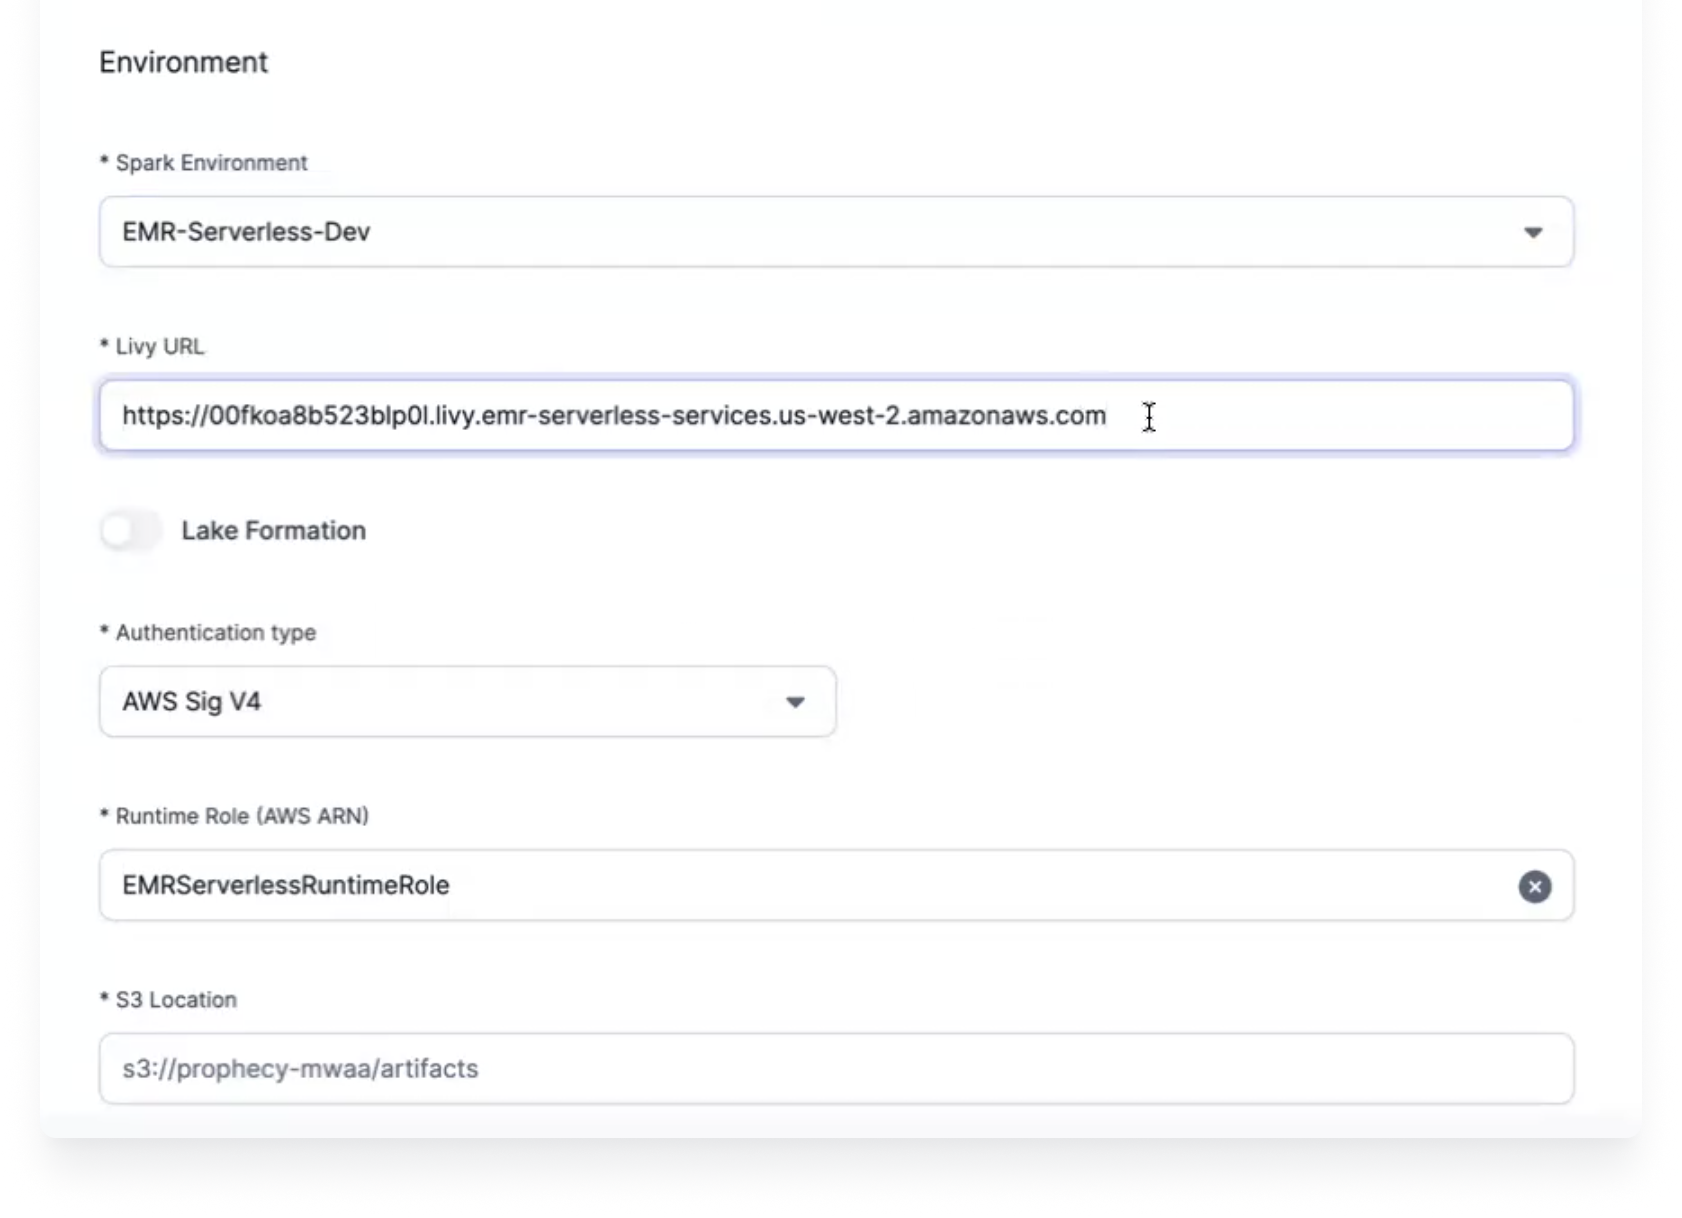
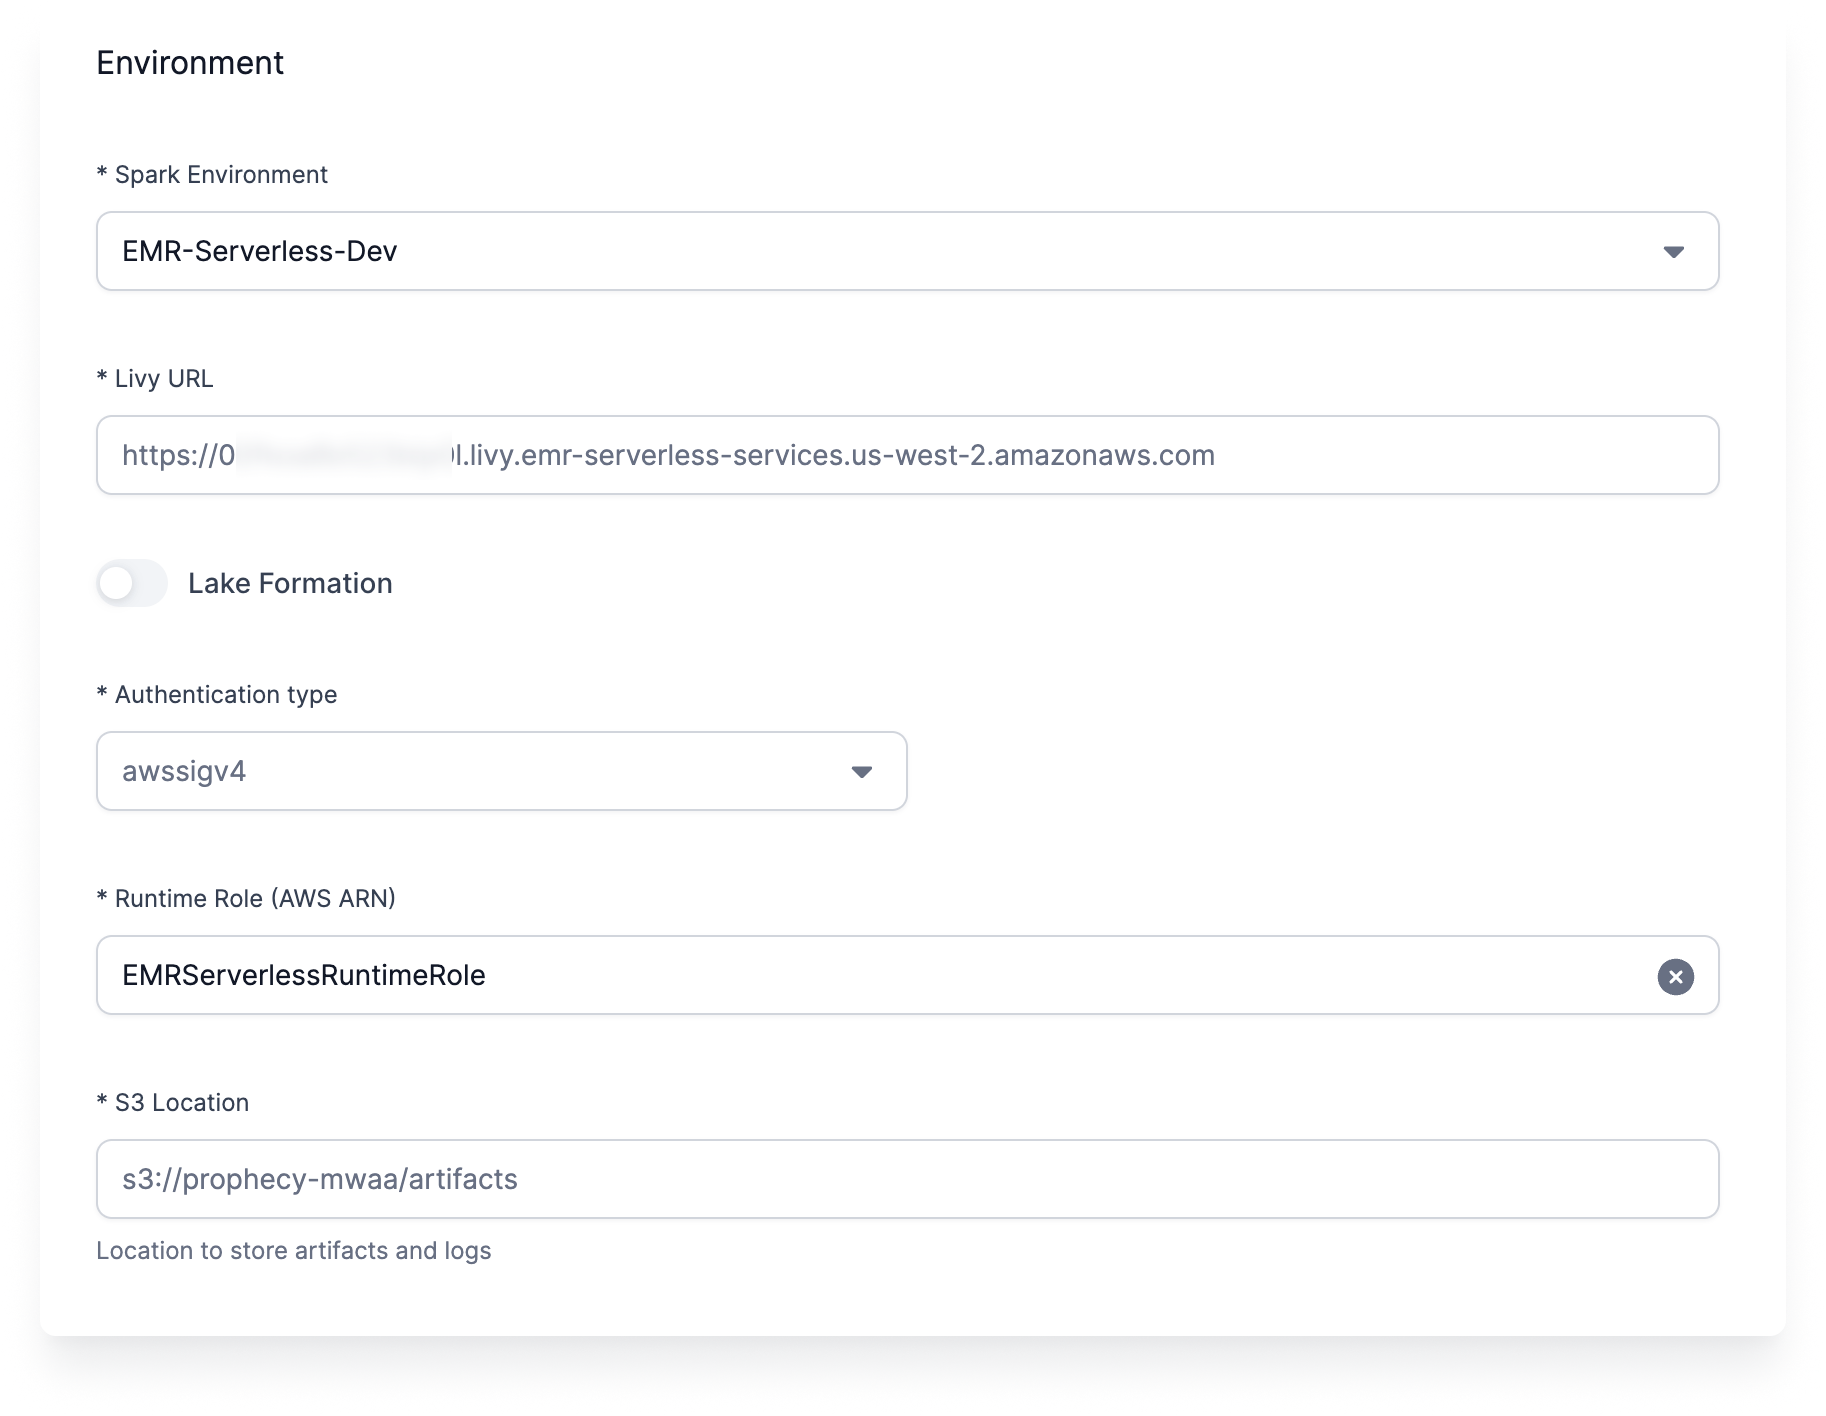
Updated screenshots and text
Also minor updates to other Fabrics pages

diff --git a/docs/Spark/fabrics/emr-fabric-serverless.md b/docs/Spark/fabrics/emr-fabric-serverless.md
@@ -10,7 +10,7 @@ tags:
   - serverless
 ---
 
-In the context of Spark execution engines, users have the flexibility to opt for Amazon EMR Serverless. This guide offers step-by-step instructions on creating a Fabric that enables seamless connectivity to the EMR Serverless environment.
+In the context of Spark execution engines, you have the flexibility to opt for Amazon EMR Serverless. This guide offers step-by-step instructions on creating a Fabric that enables seamless connectivity to the EMR Serverless environment.
 
 ## Create Amazon EMR Serverless cluster with Apache Livy
 
@@ -18,7 +18,7 @@ Navigate to Amazon EMR Serverless service and create a cluster. Under **Applicat
 
 Choose appropriate applications to include in your installation. At a minimum, make sure sure **Livy** and **Spark** are included in the install.
 
-<img src={require('./img/livy.png').default} alt="EMR create cluster" width="75%" />
+<img src={require('./img/livy.png').default} alt="EMR Serverless create cluster" width="75%" />
 
 ### Allow network connectivity between Amazon EMR Serverless and Prophecy
 
@@ -36,8 +36,8 @@ By implementing these adjustments to your EMR Serverless cluster's security grou
 
 ## Create a Fabric to connect Prophecy to EMR Serverless
 
-Navigate to Prophecy's UI and click on **Create Fabric**. The Fabric will establish a connection with your EMR Serverless cluster and utilizes it as the execution engine for your Pipelines.
-<img src={require('./img/create-entity-emr.png').default} alt="EMR create cluster" width="75%" />
+Navigate to Prophecy's UI and click on **Create Fabric**. The Fabric will establish a connection with your EMR Serverless cluster and use it as the execution engine for your Pipelines.
+<img src={require('./img/create-entity-emr.png').default} alt="EMR Serverless create Fabric" width="75%" />
 <br/>
 <br/>
 
@@ -46,37 +46,57 @@ Navigate to Prophecy's UI and click on **Create Fabric**. The Fabric will establ
 <br/>
 <br/>
 
-<img src={require('./img/name-emr.png').default} alt="EMR create Fabric" width="75%" />
+<img src={require('./img/name-emr-serverless.png').default} alt="EMR Serverless Fabric name" width="80%" />
 
-Choose **EMR** as your **Provider**.
+Choose **EMR** as your **Provider**. At this point, there is no distinction between creating an EMR and an EMR Serverless Fabric.
 
-<img src={require('./img/emr-f-abric.png').default} alt="EMR create Fabric" width="75%" />
+<img src={require('./img/emr-f-abric.png').default} alt="EMR Serverless Provider" width="75%" />
 
 Before proceeding, it is crucial to ensure that all the required settings are properly configured. If you are uncertain about the necessary configurations, we recommend reaching out to your cloud infrastructure team for additional guidance and assistance. They will be able to provide you with the specific information and support needed to ensure a successful setup.
 
 Enter your AWS credentials under **Access Key** and **Secret Key**. Choose the **Region** that your EMR Serverless cluster is running in.
 
-**Click** on **Fetch environments**.
-<img src={require('./img/emr-aws-cred.png').default} alt="EMR cred" width="75%" />
+Click on **Fetch environments**.
+<img src={require('./img/emr-aws-cred.png').default} alt="EMR Serverless cred" width="75%" />
 
-**Select** your EMR Serverless cluster that you would like to connect to under **Spark Environment**.
+Select your EMR Serverless cluster that you would like to connect to under **Spark Environment**. The EMR cluster listing also shows Serverless clusters. From the list of active clusters, you can identify your EMR Serverless cluster by finding `emr-serverless-services` within the Livy URL.
 
-<img src={require('./img/emr-serverless-dev.png').default} alt="EMR select" width="80%" />
+<img src={require('./img/emr-serverless-dev-select.png').default} alt="EMR Serverless select" width="80%" />
 
-Most of the fields should be automatically populated after selecting a EMR Serverless cluster. Enter the S3 path that points to the location where you would like your logs and Pipeline artifacts to persist.
+Most of the fields should be automatically populated after selecting a EMR Serverless cluster.
 
-<img src={require('./img/emr-serverless-environment.png').default} alt="EMR dependencies" width="80%" />
+Optional: You can enable Lake Formation by clicking the toggle.
+
+Select your Authentication type. We suggest choosing `AWS Sig V4`.
+<img src={require('./img/emr-serverless-auth-type.png').default} alt="EMR Serverless Authentication type" width="50%" />
+
+Select your Runtime Role. You will only see roles that you have access to.
+<img src={require('./img/emr-serverless-runtime-role.png').default} alt="EMR Serverless Runtime Role" width="75%" />
+
+Enter the S3 path that points to the location where you would like your logs and Pipeline artifacts to persist.
+
+<img src={require('./img/emr-serverless-environment.png').default} alt="EMR Serverless dependencies" width="80%" />
 
 Add the Job size to your environment by clicking on **Add Job Size**. Configure your Job size and click on **Add**.
-<img src={require('./img/add-sizes.png').default} alt="EMR Job size" width="55%" />
+<img src={require('./img/configure-j-ob-size.png').default} alt="EMR Job size" width="49%" />
 
 Configure the Prophecy Library:
 
-**Select** **File System** under **Scala Resolution mode** and provide the path:
+:::note
 
-`s3://prophecy-public-bucket/prophecy-public-libs/prophecy-scala-libs`
+The Spark Version and Scala Version are fixed.
 
-<img src={require('./img/sizes-and-libraries.png').default} alt="EMR Job size" width="75%" />
+:::
+
+Select **File System** under **Scala Resolution mode** and provide the following path:
+
+`s3://prophecy-public-bucket/prophecy-libs`
+
+Select **File System** under **Python Resolution mode** and provide the following path:
+
+`s3://prophecy-public-bucket/python-prophecy-libs`
+
+<img src={require('./img/emr-serverless-sizes-and-libraries.png').default} alt="EMR Serverless Library" width="78%" />
 
 Click on **Complete** and your EMR Serverless Fabric is ready!
 

diff --git a/docs/Spark/fabrics/emr-fabric.md b/docs/Spark/fabrics/emr-fabric.md
@@ -9,7 +9,7 @@ tags:
   - emr
 ---
 
-In the context of Spark execution engines, users have the flexibility to opt for Amazon EMR. This guide offers step-by-step instructions on creating a Fabric that enables seamless connectivity to the EMR environment.
+In the context of Spark execution engines, you have the flexibility to opt for Amazon EMR. This guide offers step-by-step instructions on creating a Fabric that enables seamless connectivity to the EMR environment.
 
 ## Create Amazon EMR cluster with Apache Livy
 
@@ -35,7 +35,7 @@ By implementing these adjustments to your EMR cluster's security groups, you wil
 
 ## Create a Fabric to connect Prophecy to EMR
 
-Navigate to Prophecy's UI and click on **Create Fabric**. The Fabric will establish a connection with your EMR cluster and utilizes it as the execution engine for your Pipelines.
+Navigate to Prophecy's UI and click on **Create Fabric**. The Fabric will establish a connection with your EMR cluster and use it as the execution engine for your Pipelines.
 <img src={require('./img/create-entity-emr.png').default} alt="EMR create cluster" width="75%" />
 <br/>
 <br/>
@@ -55,10 +55,10 @@ Before proceeding, it is crucial to ensure that all the required settings are pr
 
 Enter your AWS credentials under **Access Key** and **Secret Key**. Choose the **Region** that your EMR cluster is running in.
 
-**Click** on **Fetch environments**.
+Click on **Fetch environments**.
 <img src={require('./img/emr-aws-cred.png').default} alt="EMR cred" width="75%" />
 
-**Select** your EMR cluster that you would like to connect to under **Spark Environment**.
+Select your EMR cluster that you would like to connect to under **Spark Environment**.
 
 <img src={require('./img/emr-cluster-select.png').default} alt="EMR select" width="75%" />
 
@@ -67,17 +67,18 @@ Most of the fields should be automatically populated after selecting a EMR clust
 <img src={require('./img/emr-setup.png').default} alt="EMR dependencies" width="75%" />
 
 Add the Job size to your environment by clicking on **Add Job Size**. Configure your Job size and click on **Add**.
-<img src={require('./img/configure-j-ob-size.png').default} alt="EMR Job size" width="55%" />
+<img src={require('./img/configure-j-ob-size.png').default} alt="EMR Job size" width="49%" />
 
 Configure the Prophecy Library:
 
-**Select** **File System** under **Scala Resolution mode** and provide the path:
+Select **File System** under **Scala Resolution mode** and provide the following path:
 
 `s3://prophecy-public-bucket/prophecy-libs`
 
-**Select** **File System** under **Python Resolution mode** and provide the path:
+Select **File System** under **Python Resolution mode** and provide the following path:
 
 `s3://prophecy-public-bucket/python-prophecy-libs`
+
 <img src={require('./img/library.png').default} alt="EMR Job size" width="75%" />
 
 Click on **Complete** and your EMR Fabric is ready!

diff --git a/docs/Spark/fabrics/synapsefabric.md b/docs/Spark/fabrics/synapsefabric.md
@@ -44,52 +44,52 @@ Note that the Prophecy public IP is `3.133.35.237`.
 Navigate to Prophecy's UI and click on **Create Fabric**. The Fabric will establish a connection with your Synapse environment and utilize it as the execution engine for your Pipelines.
 <br/> <br/>
 
-**Choose Synapse** as your **Provider**.
+Choose **Synapse** as your **Provider**.
 <br/> <br/>
 
 <img src={require('./img/provider1.png').default} alt="Synapse connect" width="75%" />
 <br/> <br/>
 
-**Copy and paste** your **Application Client ID**, **Secret Value** and **Tenant ID** from the App Registration page.
+Copy and paste your **Application Client ID**, **Secret Value**, and **Tenant ID** from the App Registration page.
 <br/> <br/>
 
 <img src={require('./img/appconfig.png').default} alt="Synapse connect" width="75%" />
 <br/> <br/>
 
-**Copy and paste** your Synapse **Resource Group Name** and **Subscription ID** from your Synapse workspace.
+Copy and paste your Synapse **Resource Group Name** and **Subscription ID** from your Synapse workspace.
 <br/> <br/>
 
 <img src={require('./img/workspaceconfig.png').default} alt="Synapse connect" width="75%" />
 <br/> <br/>
 
-**Click** on **Fetch environments**.
+Click on **Fetch environments**.
 <br/> <br/>
 
-**Select** your Spark pool from the _Spark environment_ dropdown. All other fields should be automatically populated after selecting your Spark Pool.
+Select your Spark pool from the _Spark environment_ dropdown. All other fields should be automatically populated after selecting your Spark Pool.
 <br/> <br/>
 
 <img src={require('./img/selectsparkpool.png').default} alt="Synapse connect" width="75%" />
 <br/> <br/>
 
-**Click** on **Add Job Size** and configure the Job size that you would like to use for processing.
+Click on **Add Job Size** and configure the Job size that you would like to use for processing.
 <br/> <br/>
 
-<img src={require('./img/addjsize.png').default} alt="Synapse connect" width="75%" />
+<img src={require('./img/addjsize.png').default} alt="Synapse connect" width="55%" />
 <br/> <br/>
 
 Now we configure the dependencies.
 
-Under **Scala** enter **Path**
+Under **Scala** enter the following **Path**:
 
 `https://prophecypublicazure.blob.core.windows.net/prophecy-public-libs/prophecy-scala-libs/`
 
-Under **Python** enter **Path**
+Under **Python** enter the following **Path**:
 
 `https://prophecypublicazure.blob.core.windows.net/prophecy-public-libs/prophecy-python-libs/`
 
 <br/> <br/>
 
-**Click** on **Complete**.
+Click on **Complete**.
 <br/> <br/>
 
 Your Fabric for Azure Synapase Fabric is configured! Try creating a cluster using the Fabric that you've just created and attach to it.

diff --git a/docs/Spark/fabrics/dataproc.md b/docs/Spark/fabrics/dataproc.md
@@ -77,15 +77,15 @@ gcloud config set account meitestserviceaccount@core-shard-398601.iam.gserviceac
 
 ## Create a Dataproc Fabric
 
-1. Create a Fabric and **select Dataproc**
+1. Create a Fabric and select **Dataproc**.
    <br/><br/>
    <img src={require('./img/selectdataproc.png').default} alt="select dataproc" width="75%" />
    <br/><br/>
-2. Fill out your **Project Name**, **Region** and **upload** the **private key**.
+2. Fill out your **Project Name** and **Region**, and upload the **Private Key**.
    <br/><br/>
    <img src={require('./img/configuredataproc.png').default} alt="configure dataproc" width="75%" />
    <br/><br/>
-3. **Click** on **Fetch environments** and **select** the Dataproc **cluster** that you created earlier.
+3. Click on **Fetch environments** and select the Dataproc **cluster** that you created earlier.
    <br/><br/>
    <img src={require('./img/selectenv.png').default} alt="select cluster" width="75%" />
    <br/><br/>
@@ -99,15 +99,15 @@ gcloud config set account meitestserviceaccount@core-shard-398601.iam.gserviceac
    <br/><br/>
 6. Add the **Job Size**.
    <br/><br/>
-   <img src={require('./img/procjobsize.png').default} alt="Job Size" width="75%" />
+   <img src={require('./img/procjobsize.png').default} alt="Job Size" width="55%" />
    <br/><br/>
 7. Configure Scala Library Path.
-   `gs://prophecy-public-gcp/prophecy-scala-libs/`
+   `gs://prophecy-public-gcp/prophecy-scala-libs/`.
 8. Configure Python Library Path.
-   `gs://prophecy-public-gcp/prophecy-python-libs/`
+   `gs://prophecy-public-gcp/prophecy-python-libs/`.
    <br/><br/>
-   <img src={require('./img/proclib.png').default} alt="dependences" width="75%" />
+   <img src={require('./img/proclib.png').default} alt="dependences" width="85%" />
    <br/><br/>
-9. **Click** on **Complete**.
+9. Click on **Complete**.
    <br/><br/>
    Run a simple Pipeline and make sure that the interim returns data properly.
